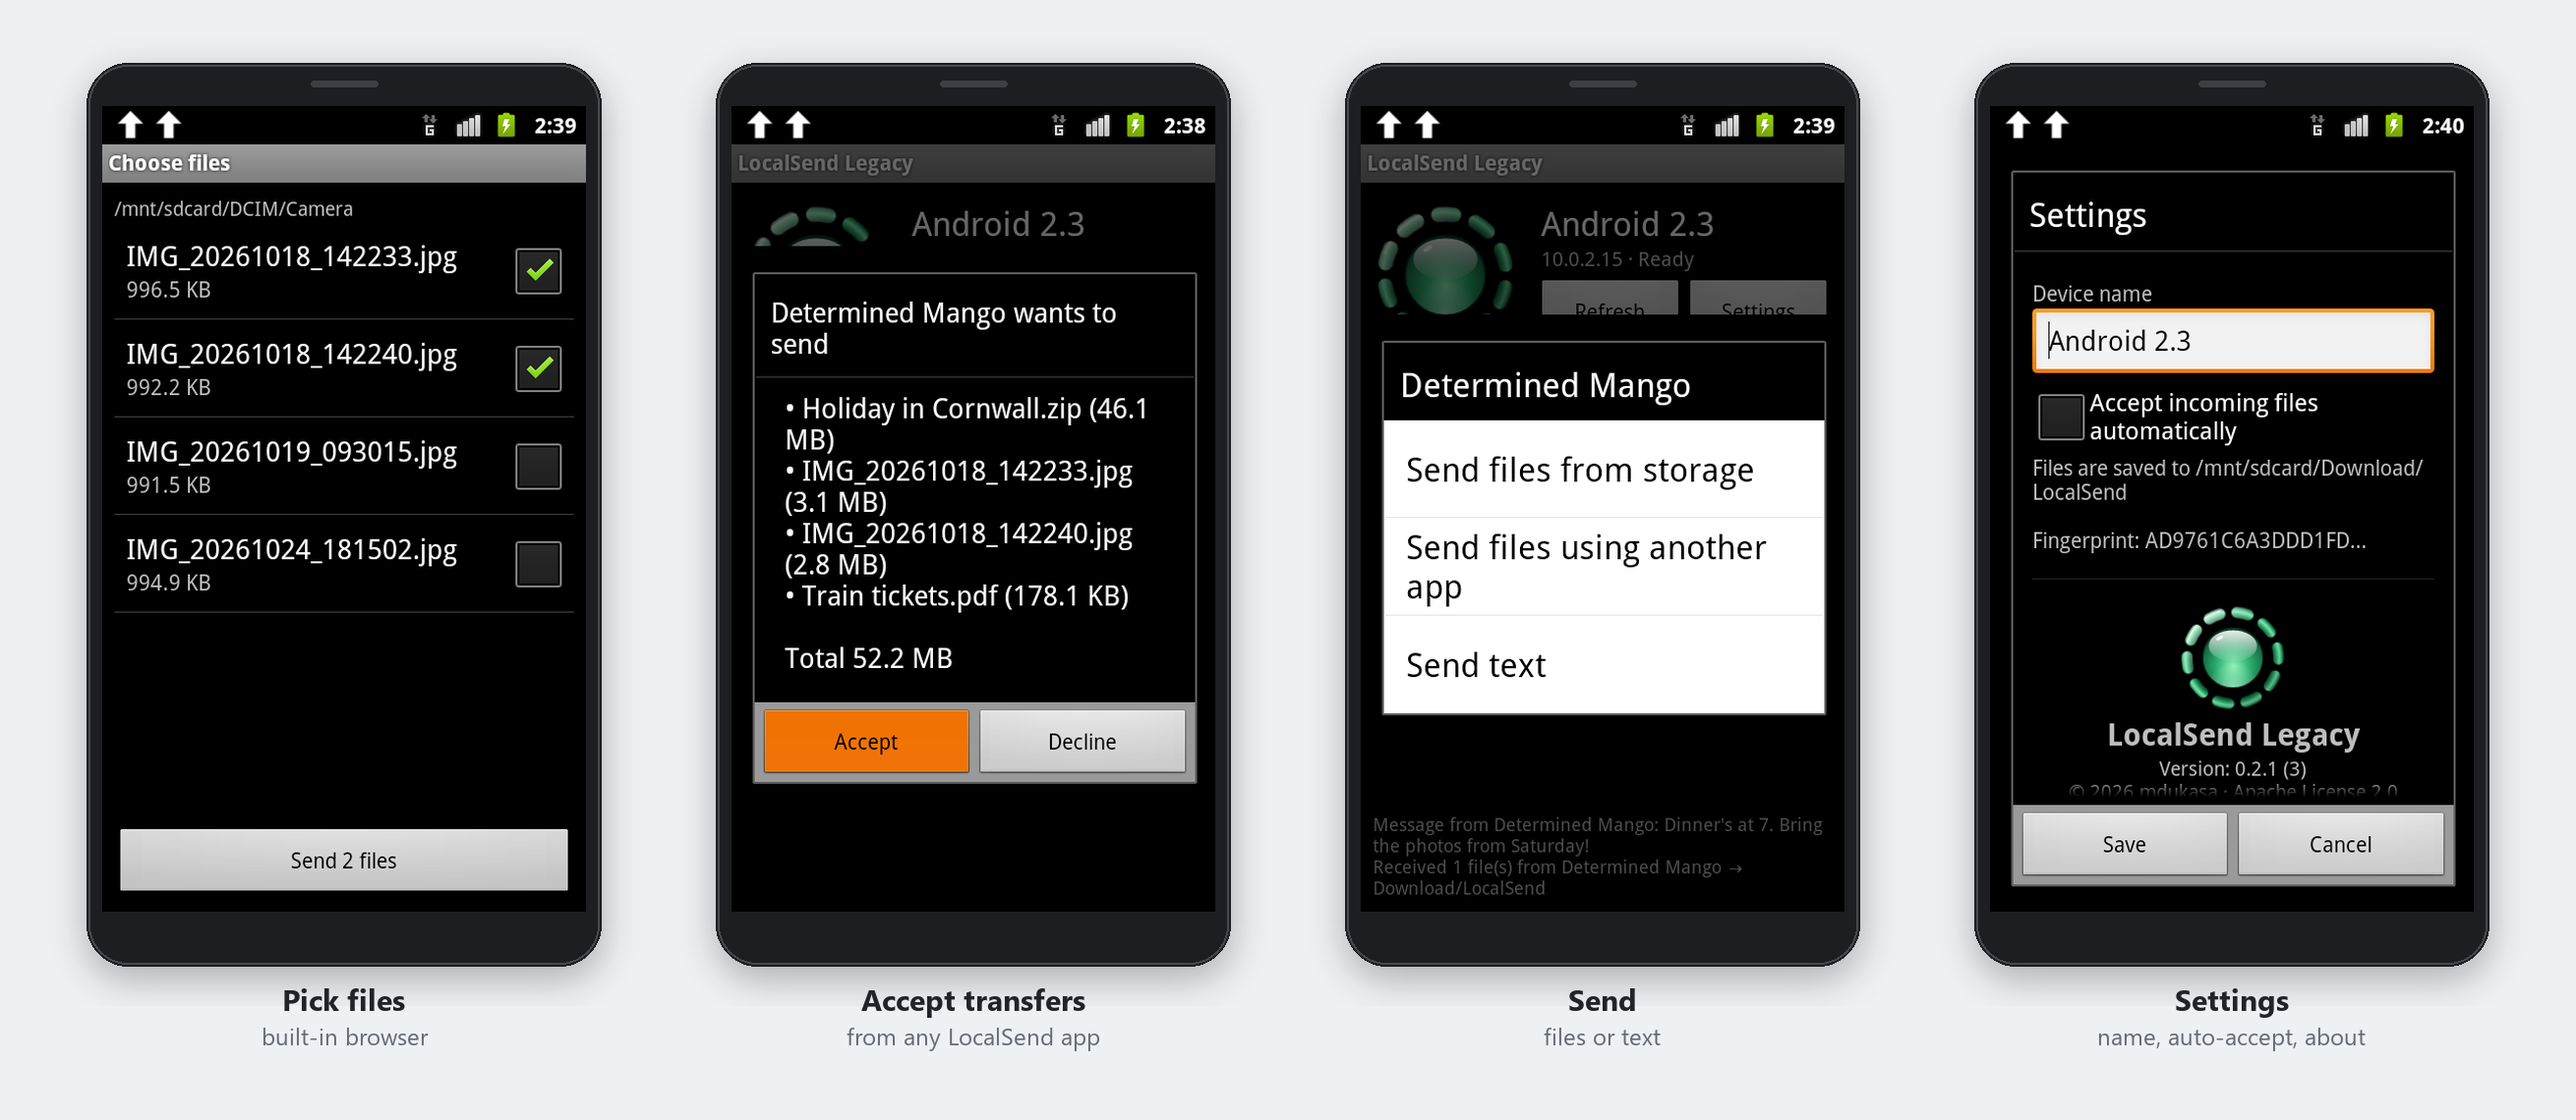
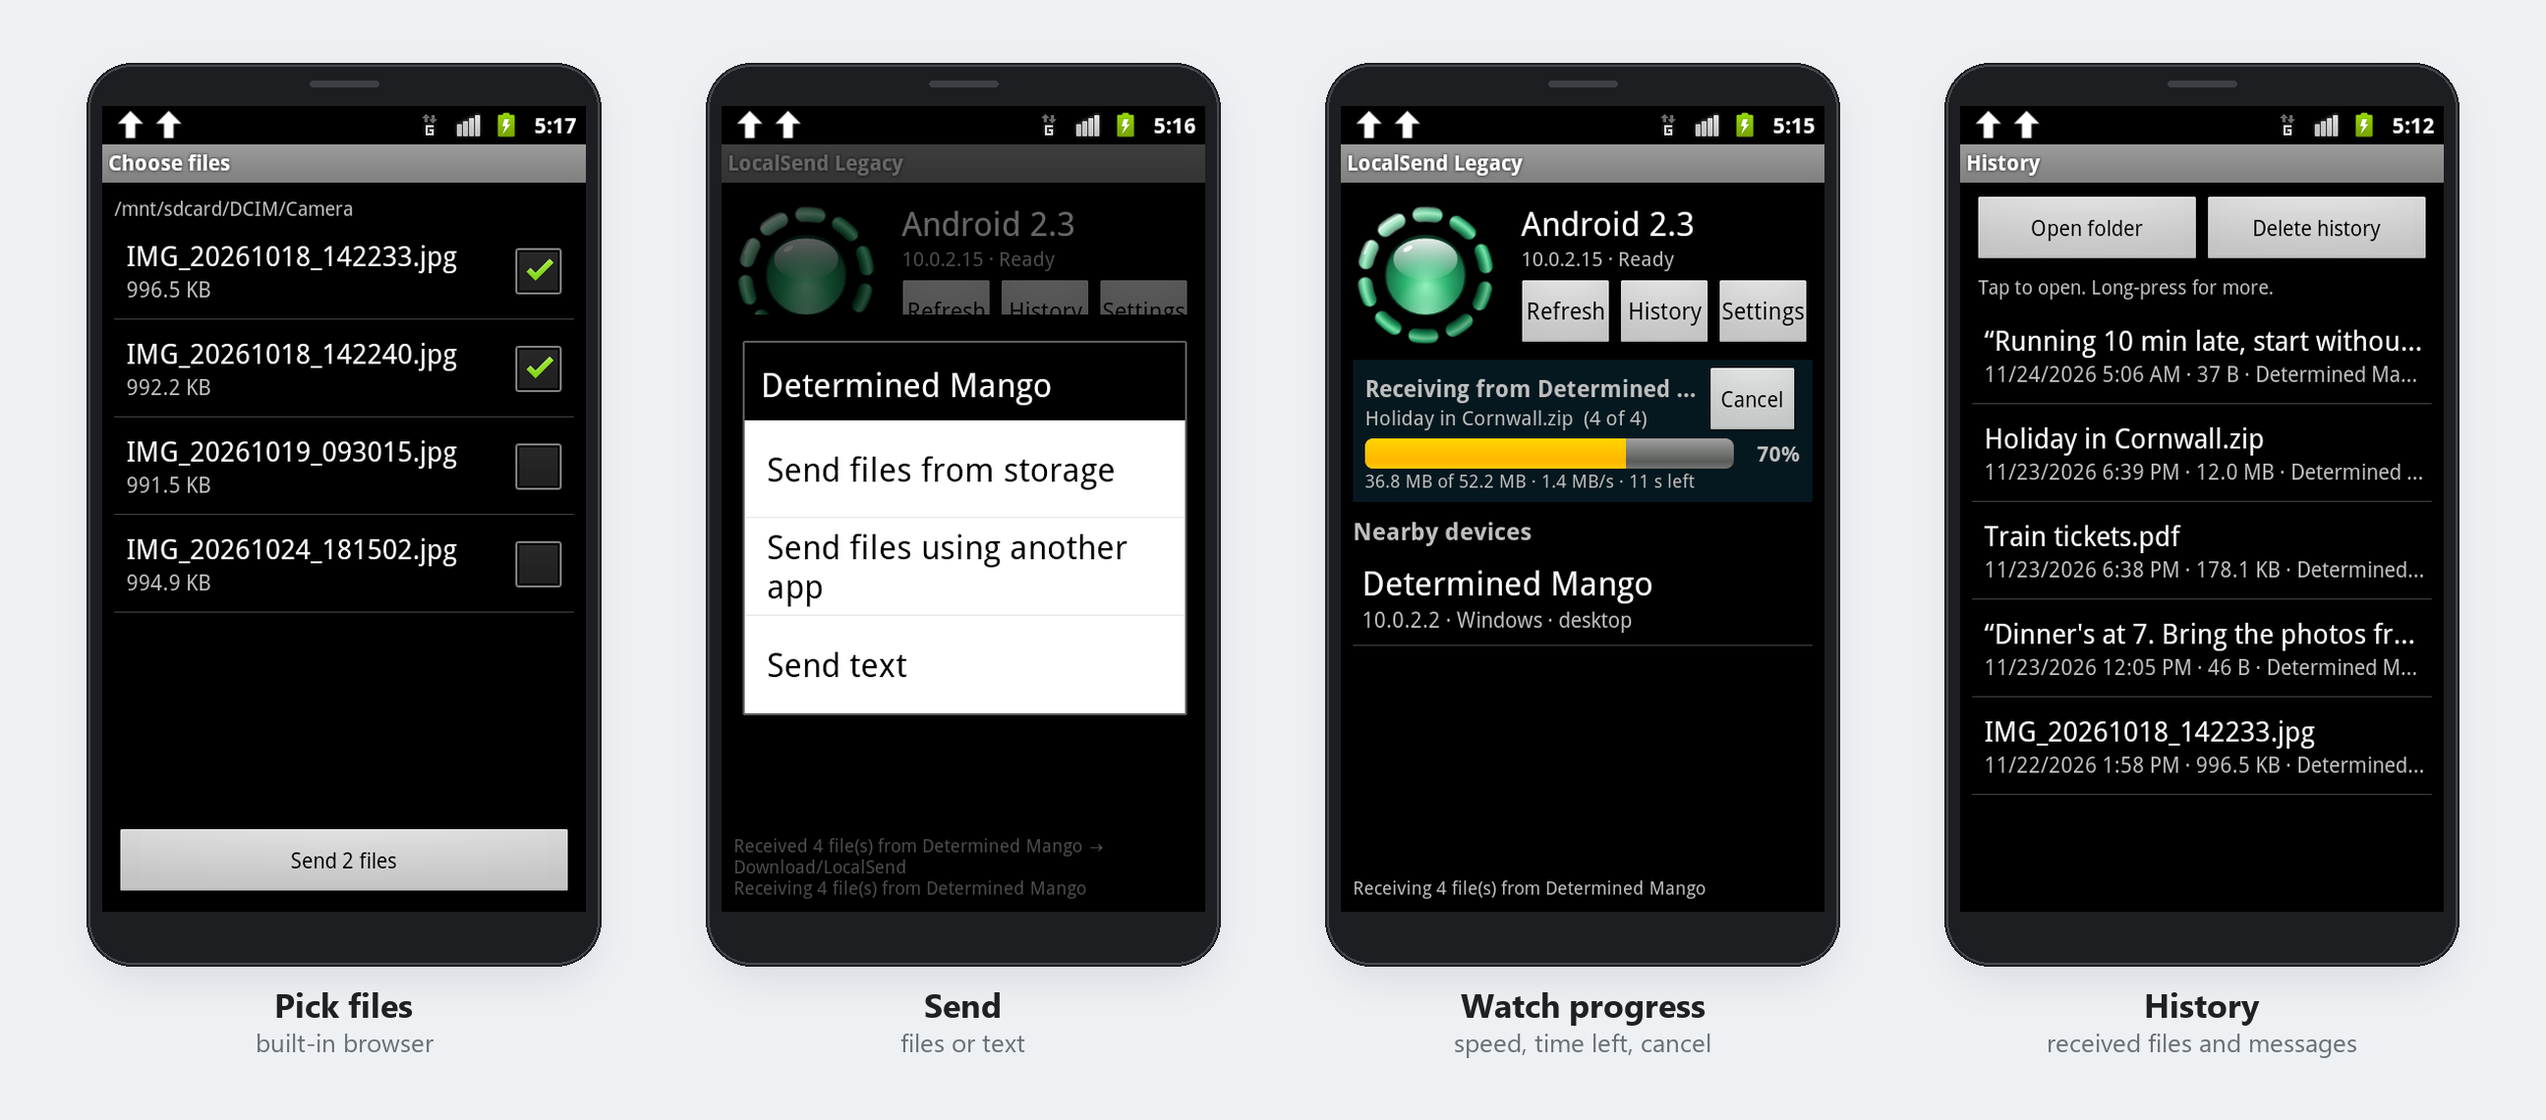
Refresh README screenshots: history, progress cards, new header

diff --git a/README.md b/README.md
@@ -27,11 +27,11 @@ so one APK runs on every CPU architecture.
 
 On Android 4.4 (KitKat), with the Holo theme:
 
-![Choosing files, an incoming transfer, a received message and settings on Android 4.4](docs/screenshots/features.png)
+![Choosing files, an incoming transfer, a transfer in progress and the receive history on Android 4.4](docs/screenshots/features.png)
 
 On Android 2.3 (Gingerbread):
 
-![Choosing files, an incoming transfer, the send menu and settings on Android 2.3](docs/screenshots/features-gingerbread.png)
+![Choosing files, the send menu, a transfer in progress and the receive history on Android 2.3](docs/screenshots/features-gingerbread.png)
 
 ## Compatibility
 
